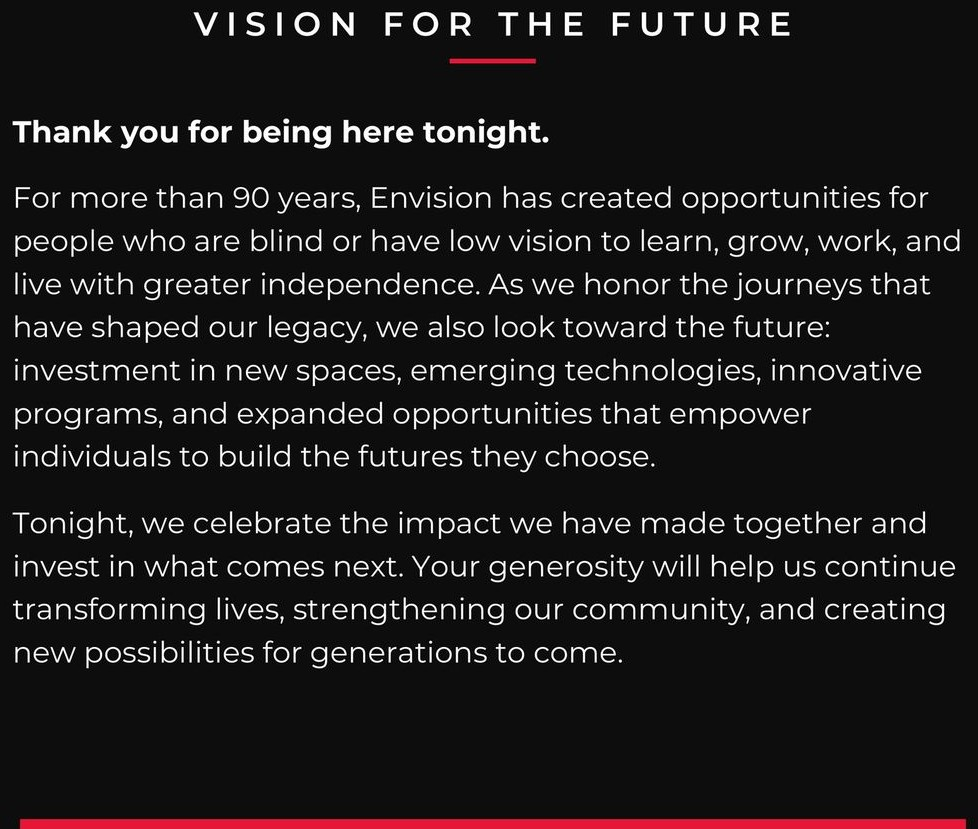
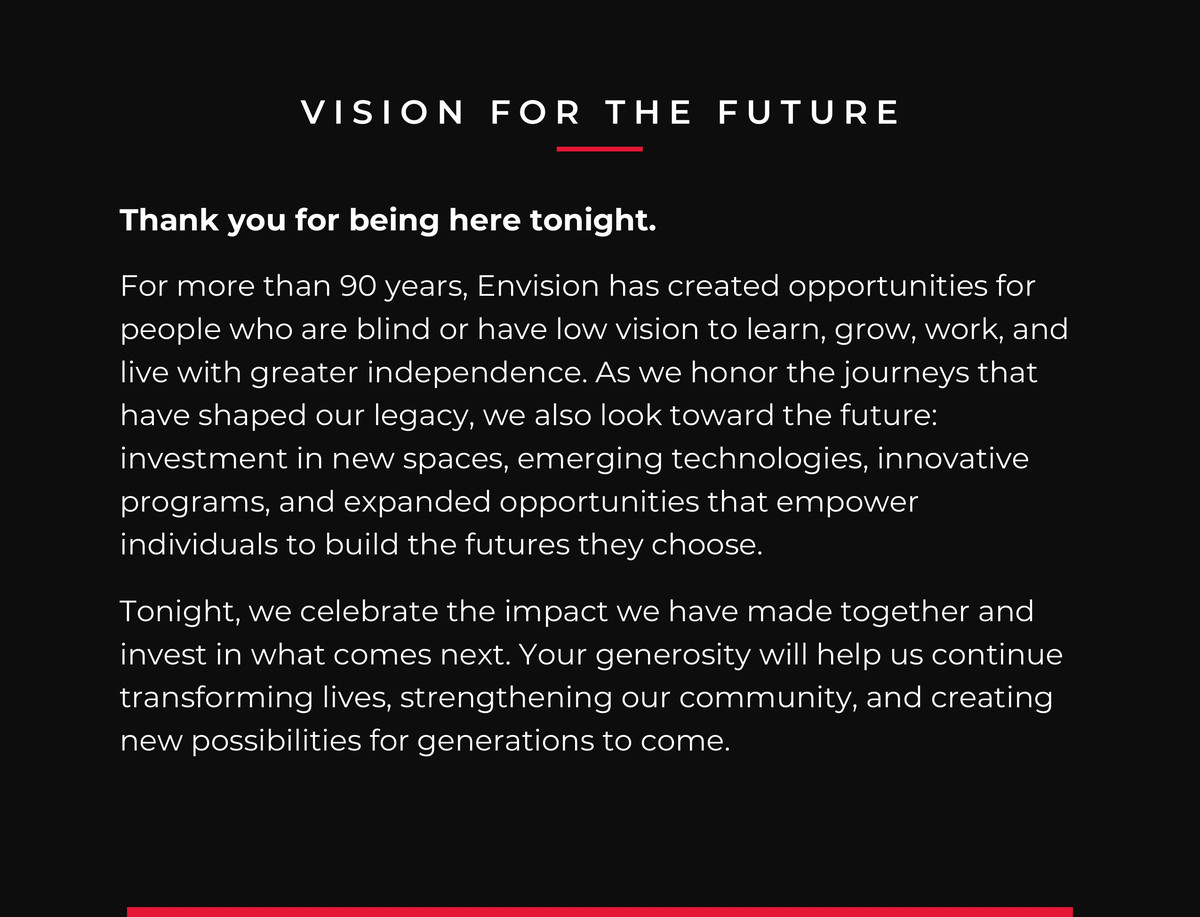
Update the program pages to the current print file
Re-rendered all 20 pages from the latest print PDF, every page trimmed
the same way at 1200x917 (several were cropped tight to the frame
before, so the set was inconsistent).

Page changes since the last update:
- page 4: "In the Beren Room" removed from the 5:30 line, vendor and
  presenting credits in italic on their own line, body copy a weight
  heavier, Invocation back above National Anthem
- page 13: "Employees of Envision are not eligible to purchase."

Screen reader text updated to match on both pages, and the Aruba page
now reads out its conditions instead of omitting them.

Claude-Session: https://claude.ai/code/session_01WhP5V5GRsyjrhchLSMVTFf

diff --git a/program.html b/program.html
@@ -58,7 +58,7 @@ var PAGES = [
   "Cover. Envision Gala 2026, A Night for Vision. Saturday, October 24, 2026, Wichita Art Museum.",
   "Envision Gala, presented by High Touch Technologies. Thank you to High Touch Technologies for making tonight possible.",
   "Vision for the Future. Thank you for being here tonight. For more than 90 years, Envision has created opportunities for people who are blind or have low vision to learn, grow, work, and live with greater independence. Tonight, we celebrate the impact we have made together and invest in what comes next.",
-  "Program. 5:30 PM, Registration, Cocktails and Sensory Experiences: Innovative Assistive Technology and Tactile Art Experiences in the Beren Room; spirits by R&J Liquor and wine by ABC Discount Liquor. 6:30 PM, Welcome and Purpose of the Night, National Anthem, Invocation, Spirit of Philanthropy Award presented to 6 Meridian. 7:00 PM, Dinner served by Scotch and Sirloin. 7:30 PM, The Envision Journey. 7:45 PM, Fund-A-Need, Aruba Chance Drawing Winner. 8:30 PM, Program Ends.",
+  "Program. 5:30 PM, Registration, Cocktails and Sensory Experiences: Innovative Assistive Technology and Tactile Art Experiences; spirits by R&J Liquor and wine by ABC Discount Liquor. 6:30 PM, Welcome and Purpose of the Night, Invocation, National Anthem, Spirit of Philanthropy Award presented to 6 Meridian. 7:00 PM, Dinner served by Scotch and Sirloin. 7:30 PM, The Envision Journey. 7:45 PM, Fund-A-Need, Aruba Chance Drawing Winner. 8:30 PM, Program Ends.",
   "Menu. Salad: spring mix, tomato, cucumber, feta cheese and walnuts, topped with an herbal dressing. Entree: sliced Sterling Silver roasted tenderloin topped with a crab cake and finished with a Bearnaise sauce, with herbal roasted potatoes, grilled asparagus and carrots. Dessert: flourless chocolate cake topped with chocolate ganache and a chocolate mousse. Dinner by Scotch and Sirloin. Spirits by R&J Liquor. Wine by ABC Discount Liquor.",
   "In the Beren Room. Innovative Assistive Technology Experience, presented by the Envision Vision Rehabilitation Center: a guided demonstration of Meta smart glasses. Tactile Art Experience, presented by Envision Arts: tactile works to experience through touch. Experiences sponsored by High Touch Technologies, Forvis Mazars, 6 Meridian, Hutton, IMA and Summit Films.",
   "Our Featured Guests, with photos. Meet Aubree, who has grown up within the Envision community, from childhood through her most recent experience at Level Up. Meet Adah, who grew up within the Envision community and returned as a volunteer intern at the Envision Child Development Center.",
@@ -67,7 +67,7 @@ var PAGES = [
   "Fund-A-Need, continued. $15,000 will cover a year's tuition for an infant at the Envision Child Development Center. $10,000 will fund transportation for teens to attend Level Up. $5,000 will provide career training through the Workforce Innovation Center.",
   "Fund-A-Need, continued. $2,500 will provide supplies for the Envision Arts Program. $1,500 will provide a year's worth of meals for a child at the Envision Child Development Center. $500 will provide a white cane and orientation and mobility services.",
   "Fund-A-Need Paddle Drop. $200 will cover registration and supplies for a child to attend Heather's Camp. Raise your paddle, then drop your bidder number in the basket.",
-  "Aruba Chance Drawing: Seven Days in Aruba. A two-suite luxury villa for up to six people at Marriott's Aruba Surf Club, plus a $2,000 airfare credit. $200 per ticket, only 100 available. Donated by Michael and Teri Monteferrante and Patrick and Becky Tuttle.",
+  "Aruba Chance Drawing: Seven Days in Aruba. A two-suite luxury villa for up to six people at Marriott's Aruba Surf Club, plus a $2,000 airfare credit. $200 per ticket, only 100 available. Donated by Michael and Teri Monteferrante and Patrick and Becky Tuttle. Tickets are sold by Envision team members during the evening. Subject to availability and blackout dates; travel complete by December 2027. Employees of Envision are not eligible to purchase.",
   "Advertisement from High Touch Technologies, presenting sponsor: proud to support Envision as Presenting Sponsor of the 2026 A Night for Vision Gala. hightouchinc.com.",
   "Thank You to Our Sponsors. Presenting Sponsor: High Touch Technologies, Inc. Corporate Partners: Allen Exploration, LC Industries Foundation, S.P. Richards Company. Platinum: Forvis Mazars, LLP. Diamond: 6 Meridian, Hutton, IMA, Inc., Summit Films. Gold: INTRUST Bank, N.A. Silver: Account Recovery Specialists, Inc., ADS, Inc., Atlas Electric, LLC, Bank of America, Belleville Boot Company, Blue Cross and Blue Shield of Kansas, Corza Ophthalmology, Eby Construction Company, Emprise Bank, Enza Financial, LLC, John and Julie Dombo, Massif, Novolex, Pitt Plastics, R.K. Black, Inc., Vornado Air.",
   "Envision, Inc. Board of Directors: Sam Williams, Chairman; Bert Denny, Vice Chairman; Kathy Schlein, Secretary; Larry Kimbler; Eric Kraft; Jeff MacDowell; Michael Monteferrante; Bob Ring; Moji Rosson; Tyler Rutstein; Dan Powers. Board Emeritus Member: Randy Summers. Our Mission: to improve the quality of life and provide inspiration and opportunity for people who are blind or have low vision through employment, outreach, rehabilitation, education and research.",
